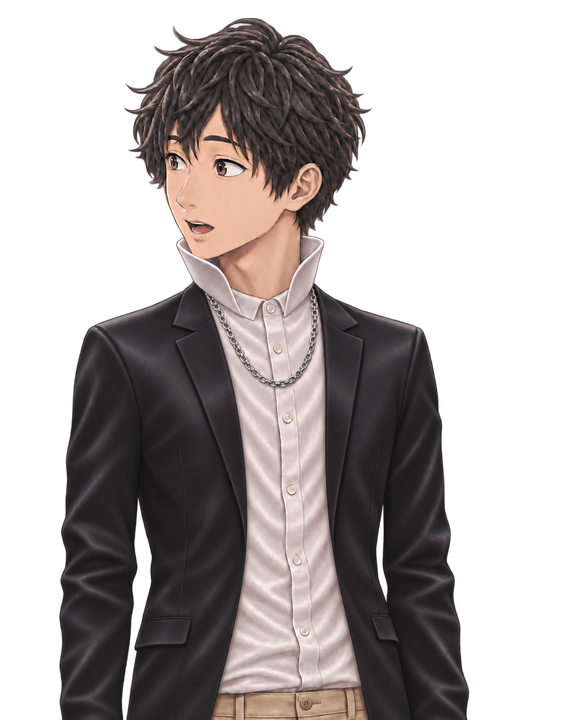
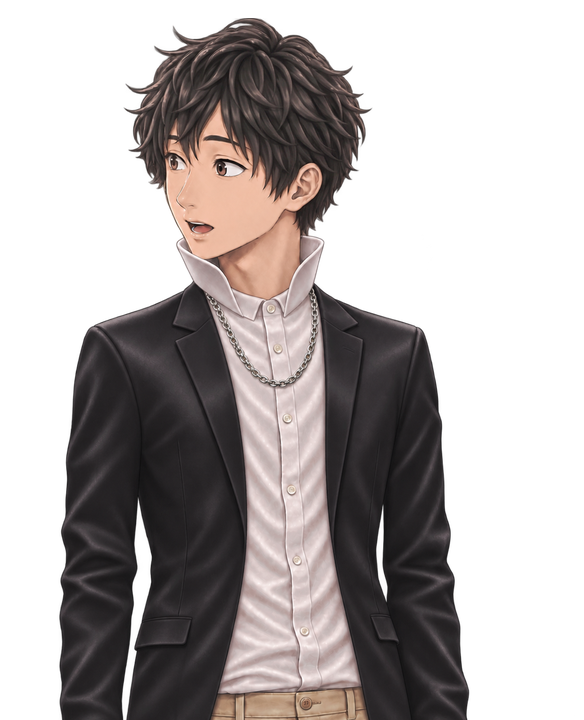
客とタクミの立ち絵の、髪のモアレを直す
Google Antigravity の画像生成で髪の塗りを直してもらい、髪の部分だけを
元の立ち絵に重ねた（顔・服・輪郭・背景の透明は元のまま）。
直したのは客のビフォー・アフターと、タクミの通常・感動の4枚。
README に、Antigravity を使ったことと、その規約の扱いを書き足す。

diff --git a/README.md b/README.md
@@ -54,7 +54,7 @@ Built with Claude: Japan 2026 の期間中（2026-11-02 12:30 のキックオフ
 | --- | --- | --- |
 | 台本（`data/scenario/story.ks` など）とゲームの組み立て | Claude Code（Anthropic）が、作者の決めた筋と指示をもとに書いた。作者が読んで直すところを指示した | 11/3〜11/7 |
 | セーブ・ロード・メニューなどの画面の部品、タイトルのボタン（`data/others/koden/`、`data/image/config_koden/`、`data/image/title/koden_*`） | Claude Code が、プログラム（Python の Pillow）で描いた。文字は Windows のメイリオと游明朝 | 11/6 |
-| 背景、人物の立ち絵、一枚絵 | OpenAI の画像生成（Codex に入っているもの）で作った。大きさと位置の調整は Claude Code が書いたプログラムでした | 11/5〜11/7 |
+| 背景、人物の立ち絵、一枚絵 | OpenAI の画像生成（Codex に入っているもの）で作った。場面1の客とタクミの立ち絵は、髪の塗りを Google Antigravity の画像生成で直し、Claude Code が書いたプログラムで髪の部分だけを元の絵に重ねた。大きさと位置の調整も Claude Code が書いたプログラムでした | 11/5〜11/7 |
 | 声（`data/sound/voice/`、84本） | Gemini TTS（Google）で作った。作る手順は Claude Code が書いた。音声には SynthID の透かしが入る | 11/5〜11/6 |
 | BGM（`data/bgm/`、6曲） | 作者が Gemini（Google）で作った。全部インスト（歌なし） | 11/4〜11/6 |
 | ゲームの仕組み | ティラノスクリプト v6.03（このリポジトリには入れていない） | — |
@@ -62,7 +62,8 @@ Built with Claude: Japan 2026 の期間中（2026-11-02 12:30 のキックオフ
 ### 使った生成 AI の道具とプラン
 
 - 絵：OpenAI の画像生成（Codex に入っているもの）。作者の ChatGPT Plus（有料）のアカウントで使った
+- 絵の直し（客とタクミの髪）：Google Antigravity（CLI）の画像生成
 - 声：Gemini TTS（Google）。Google Cloud の Vertex AI（使った分を払う有料）で作った。1本（タクミの台詞1つ）だけ Google AI Studio で作った
 - BGM：Gemini アプリ（Google。音楽は Lyria）。作者の Google AI Pro（有料）で作った
 
-どの道具の規約も、作った物は使う人のもので、公開を禁じていない（2026-11-07 に OpenAI の利用規約、Google 利用規約、Google Cloud のサービス固有の規約、Gemini API 追加利用規約の本文で確かめた）。AI で作った物を人が作った物とは見せない（どの規約にもある決まり）。
+どの道具の規約も、作った物は使う人のもので、公開を禁じていない（2026-11-07 に OpenAI の利用規約、Google 利用規約、Google Cloud のサービス固有の規約、Gemini API 追加利用規約の本文で確かめた。Google Antigravity の追加規約は、作った物について別の決まりを置かず、Google 利用規約に従う形になっている）。AI で作った物を人が作った物とは見せない（どの規約にもある決まり）。
